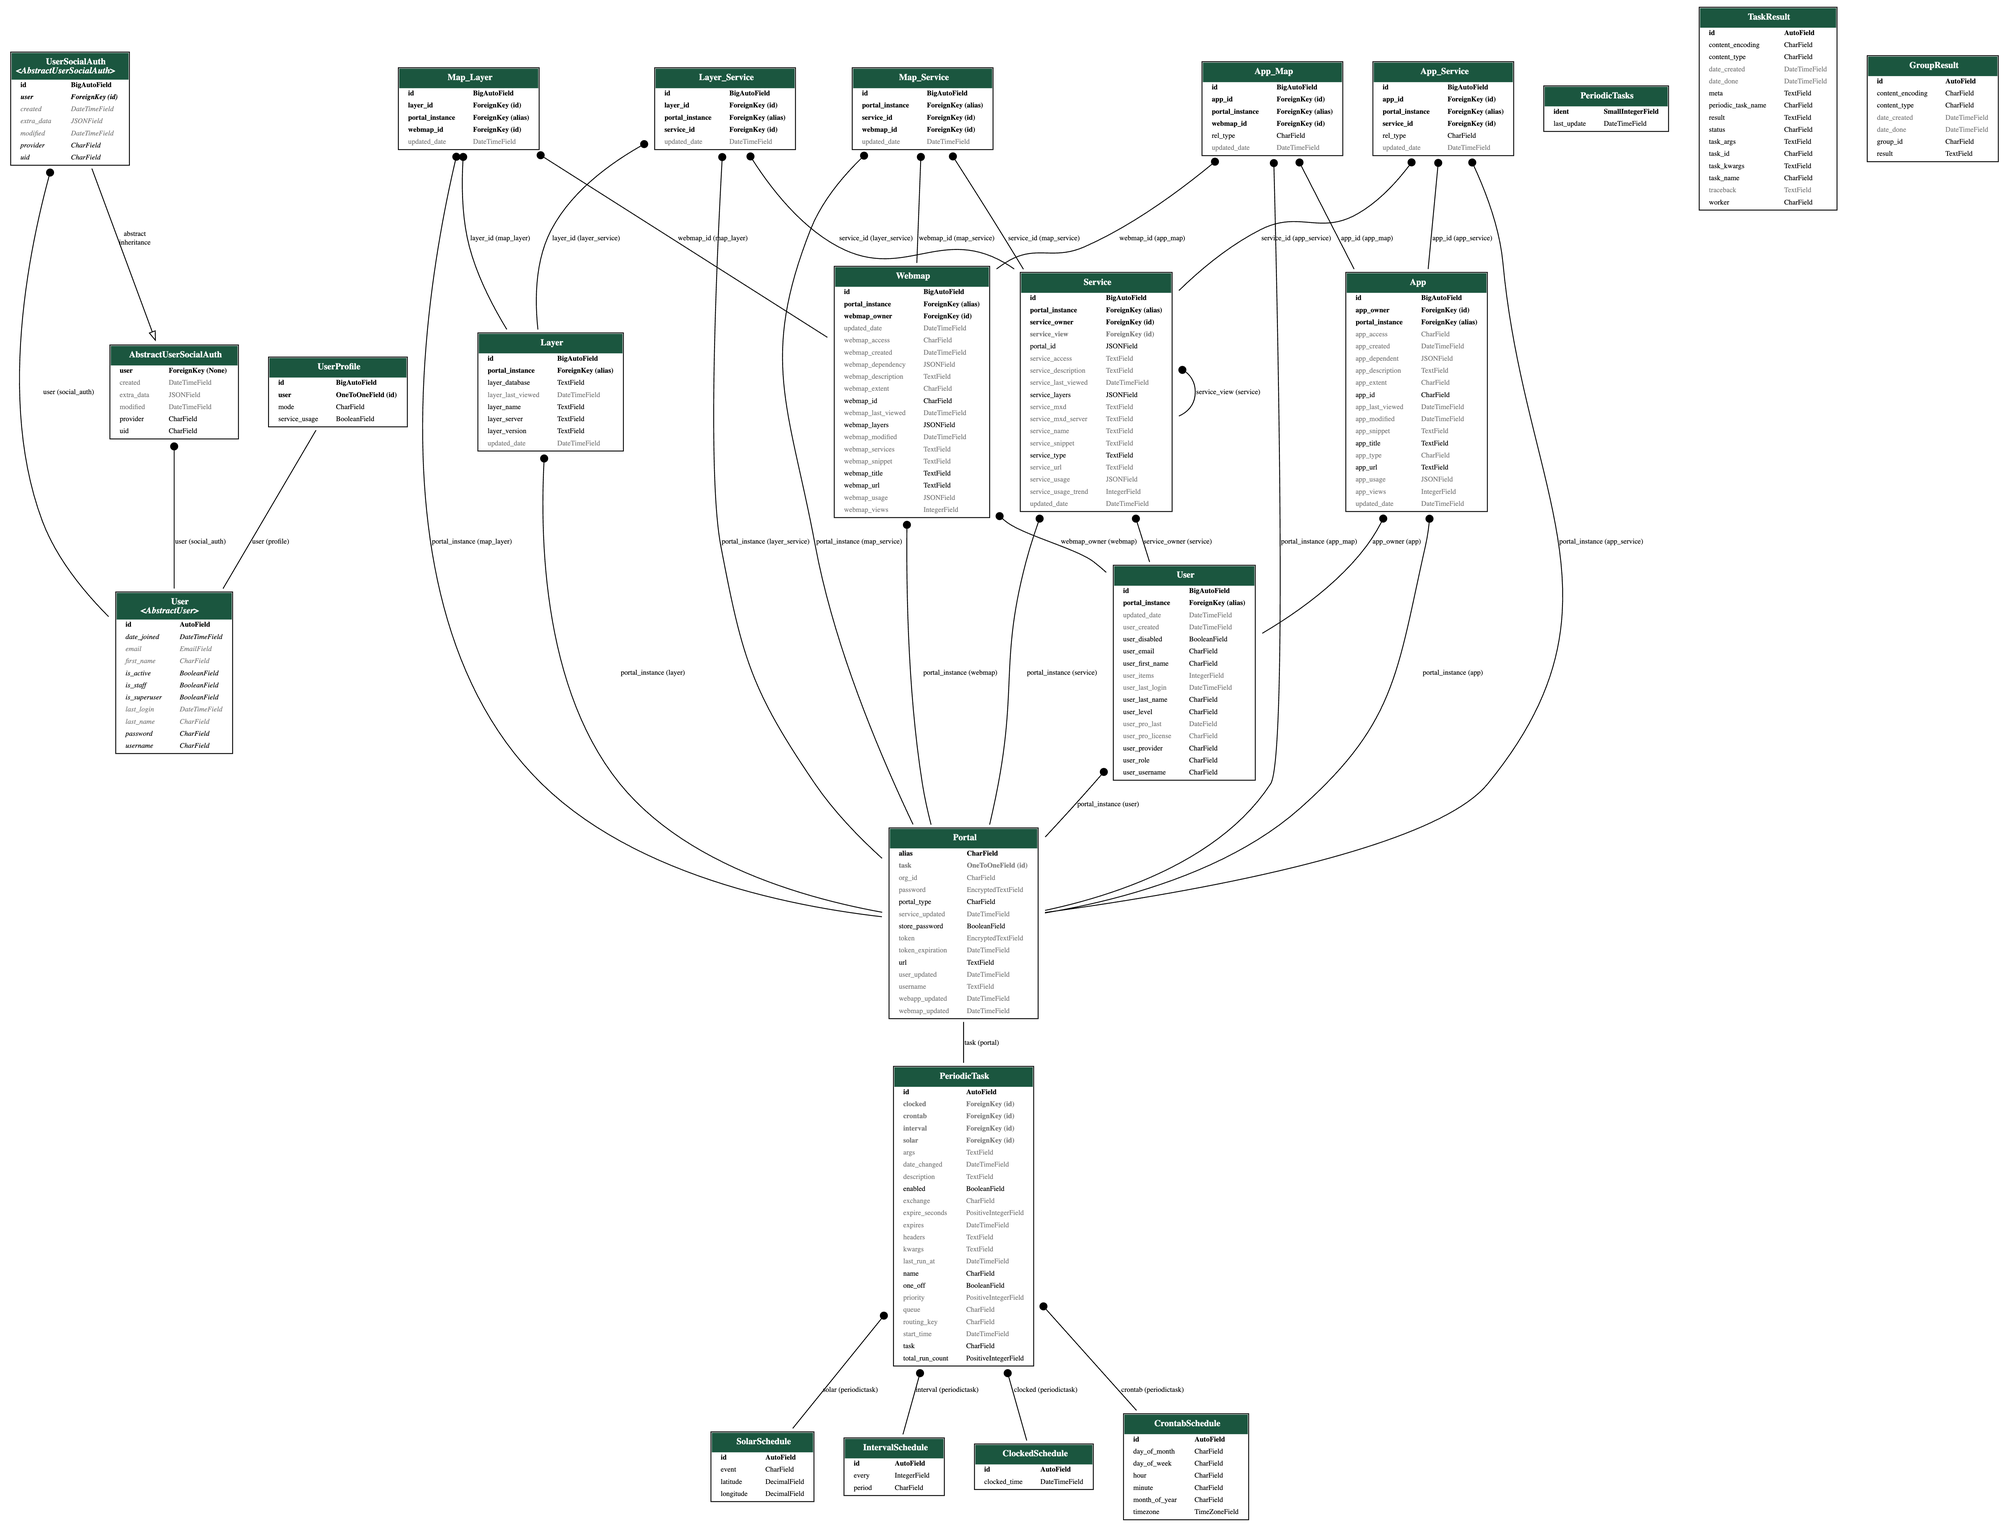
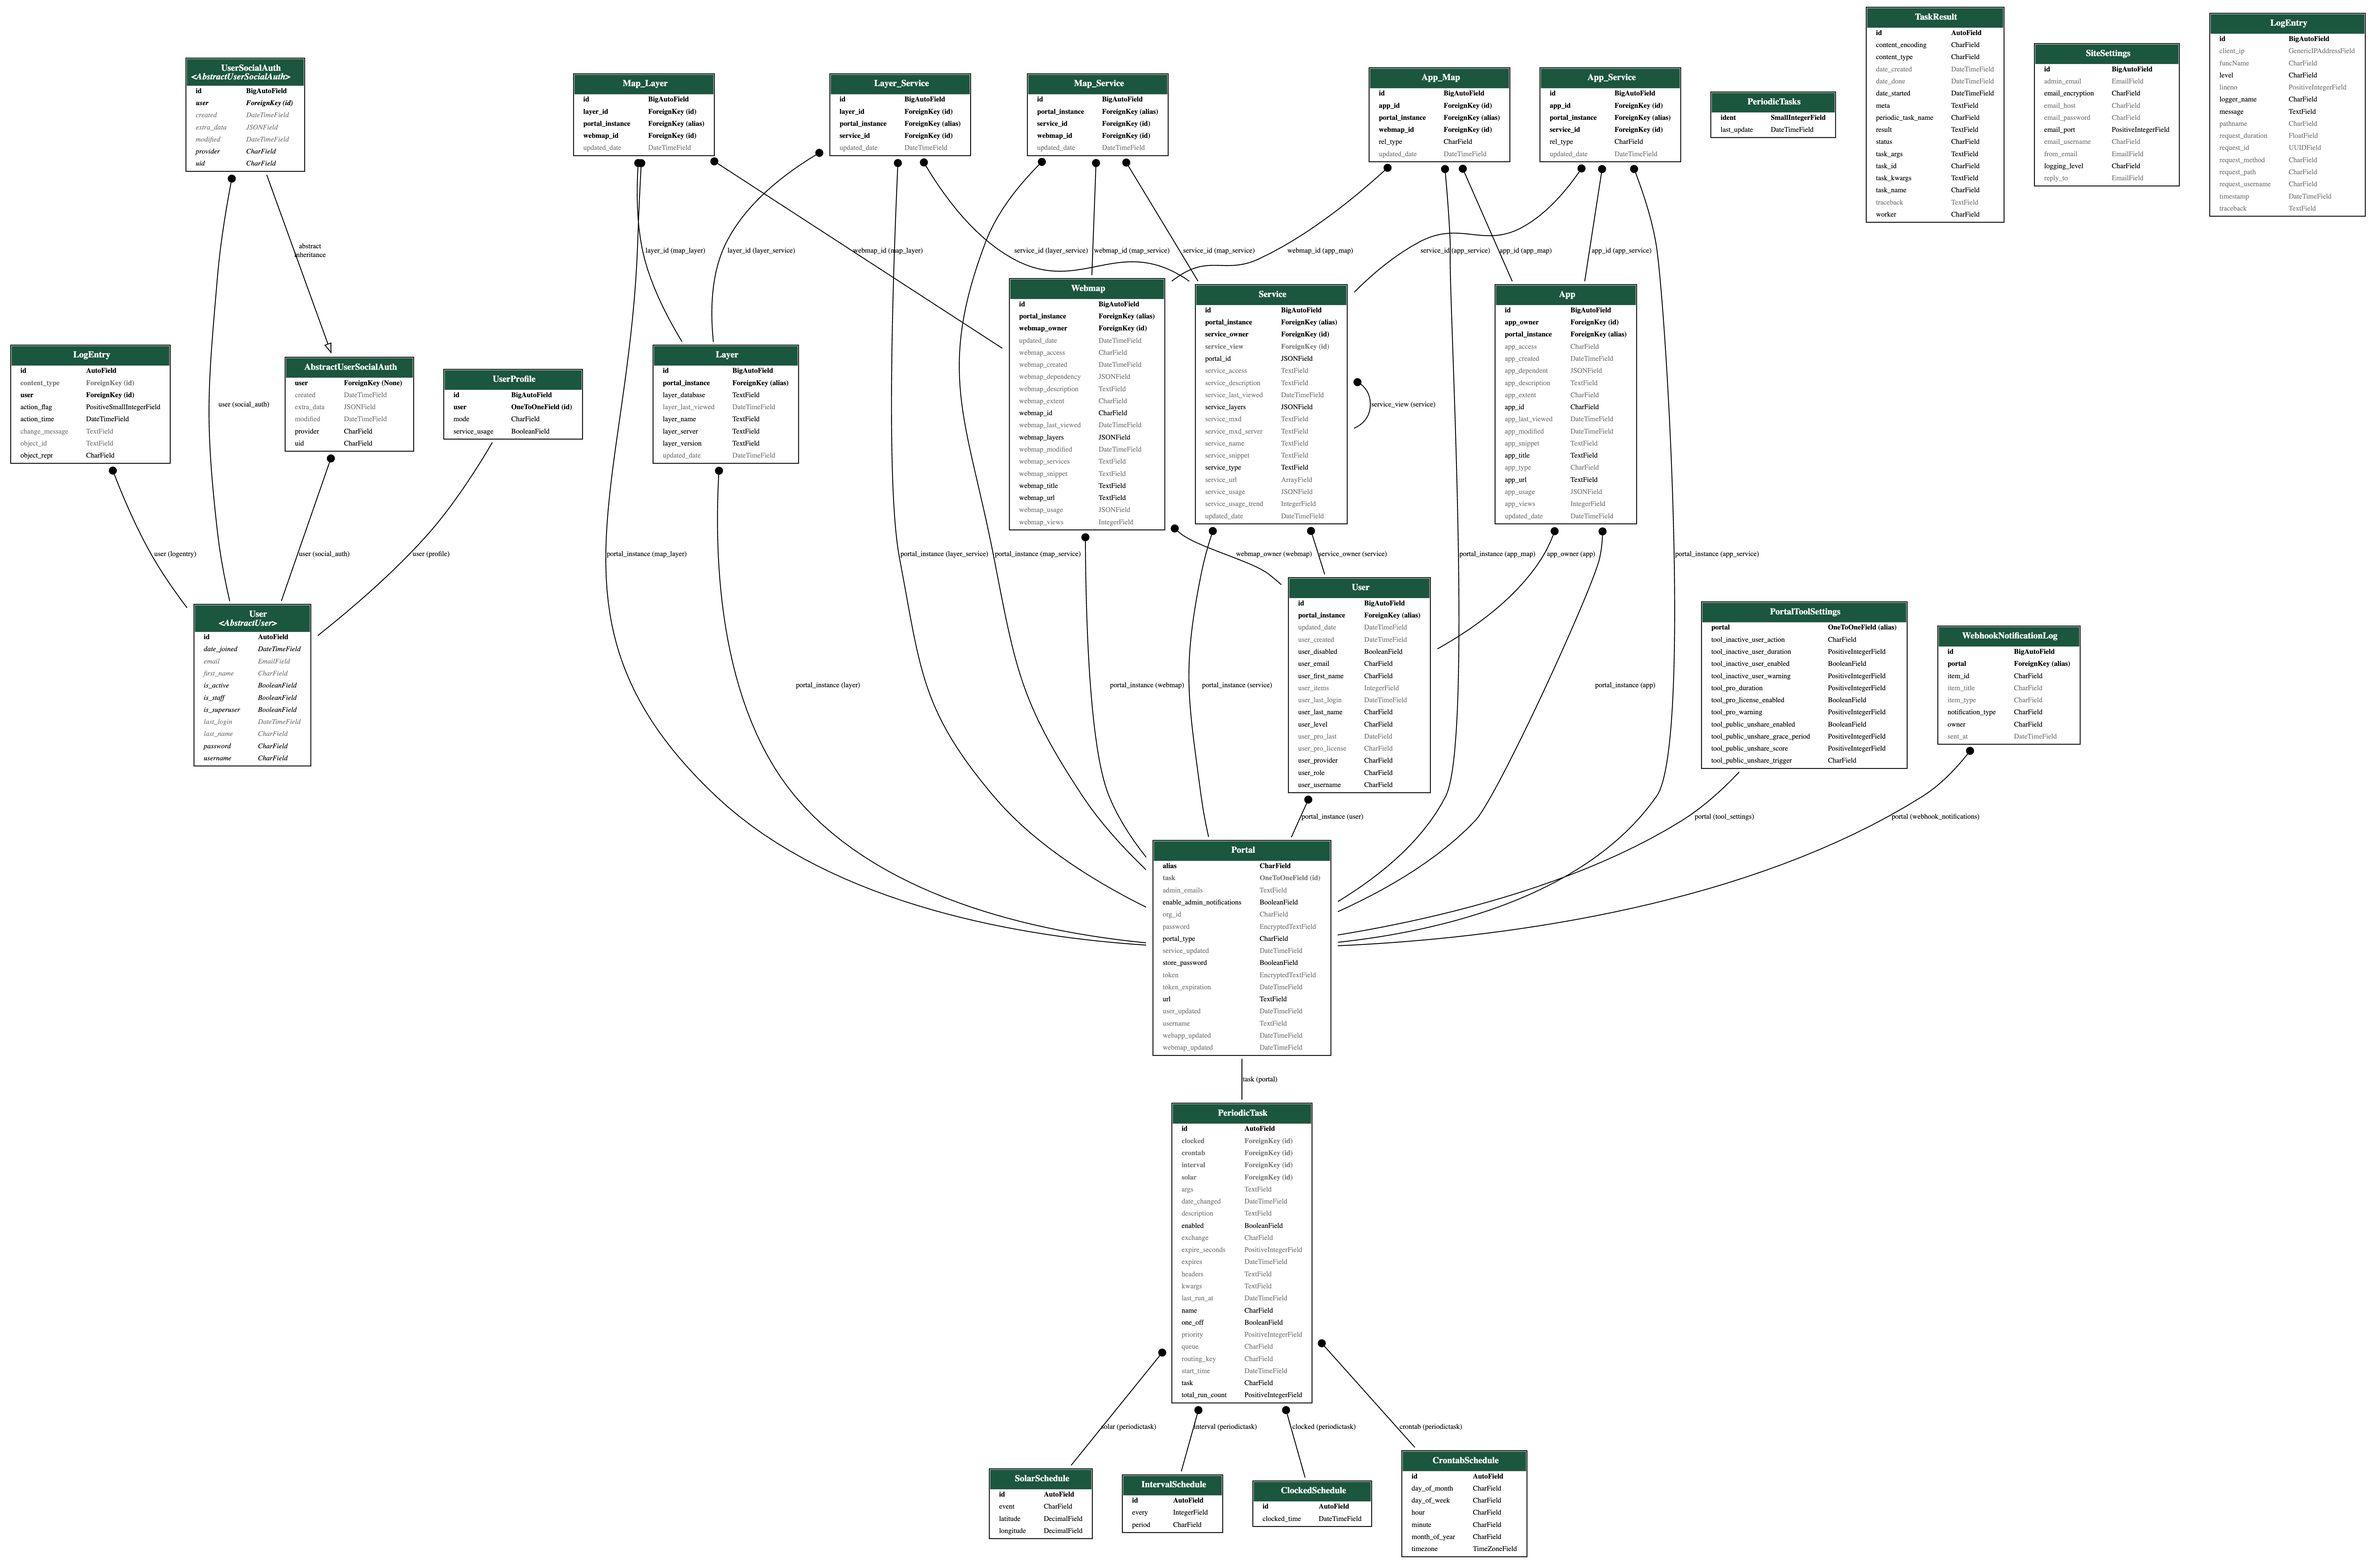
Updated README with recent tools, logs, and email additions

diff --git a/README.md b/README.md
@@ -131,11 +131,33 @@ Once you've configured the `.env` files, you can deploy EnterpriseViz using Dock
     *   **Settings**
 
         *   **Logging:** Application logs can be viewed through the Settings panel.
-             *   Logging levels may be changed here
+             *   Logging levels may be changed here (INFO, WARNING, ERROR, DEBUG, CRITICAL)
+             *   Log entries include timestamp, level, message, and other contextual information
+        *   **Email Configuration:** Configure email settings for notifications.
+             *   SMTP server settings (host, port, encryption type)
+             *   Authentication credentials
+             *   Default From and Reply-To addresses
         *   **Theme:** Change between light and dark mode.
              *   Preferences are saved to your user
-        *   **Service Usage** Enable or disable real-time service usage graphs in detail pages
+        *   **Service Usage:** Enable or disable real-time service usage graphs in detail pages.
              *   Sometimes usage graphs can take a while to retrieve from ArcGIS Server
+
+    *   **Portal Tools**
+
+        EnterpriseViz includes several administrative tools to help manage your ArcGIS Portal.
+        Schedule automatic runs or execute on-demand.
+
+        *   **ArcGIS Pro License Removal:** Automatically manage ArcGIS Pro licenses.
+             *   Remove licenses from inactive users based on configurable inactivity duration
+             *   Send warning notifications before license removal
+        *   **Inactive User Management:** Manage inactive portal users.
+             *   Identify users based on configurable inactivity duration
+             *   Choose actions: notify only, disable user, delete user, or transfer content
+             *   Send warning notifications before taking action
+        *   **Public Item Unsharing:** Enforce metadata quality standards.
+             *   Unshare publicly shared items that don't meet metadata score requirements
+             *   Configure minimum metadata score threshold (50%, 75%, 90%, 100%)
+             *   Choose between immediate (webhook) or daily processing
 
 
 ## Screenshots
@@ -145,6 +167,8 @@ Once you've configured the `.env` files, you can deploy EnterpriseViz using Dock
 ![Layer Details](images/layer_details.png)
 ![Layer Details Cont](images/layer_details2.png)
 ![Schedule Refresh](images/schedule.png)
+![Logs](images/logs.png)
+![Portal Tools](images/portal_tools.png)
 
 
 ## ERD (Entity-Relationship Diagram)
